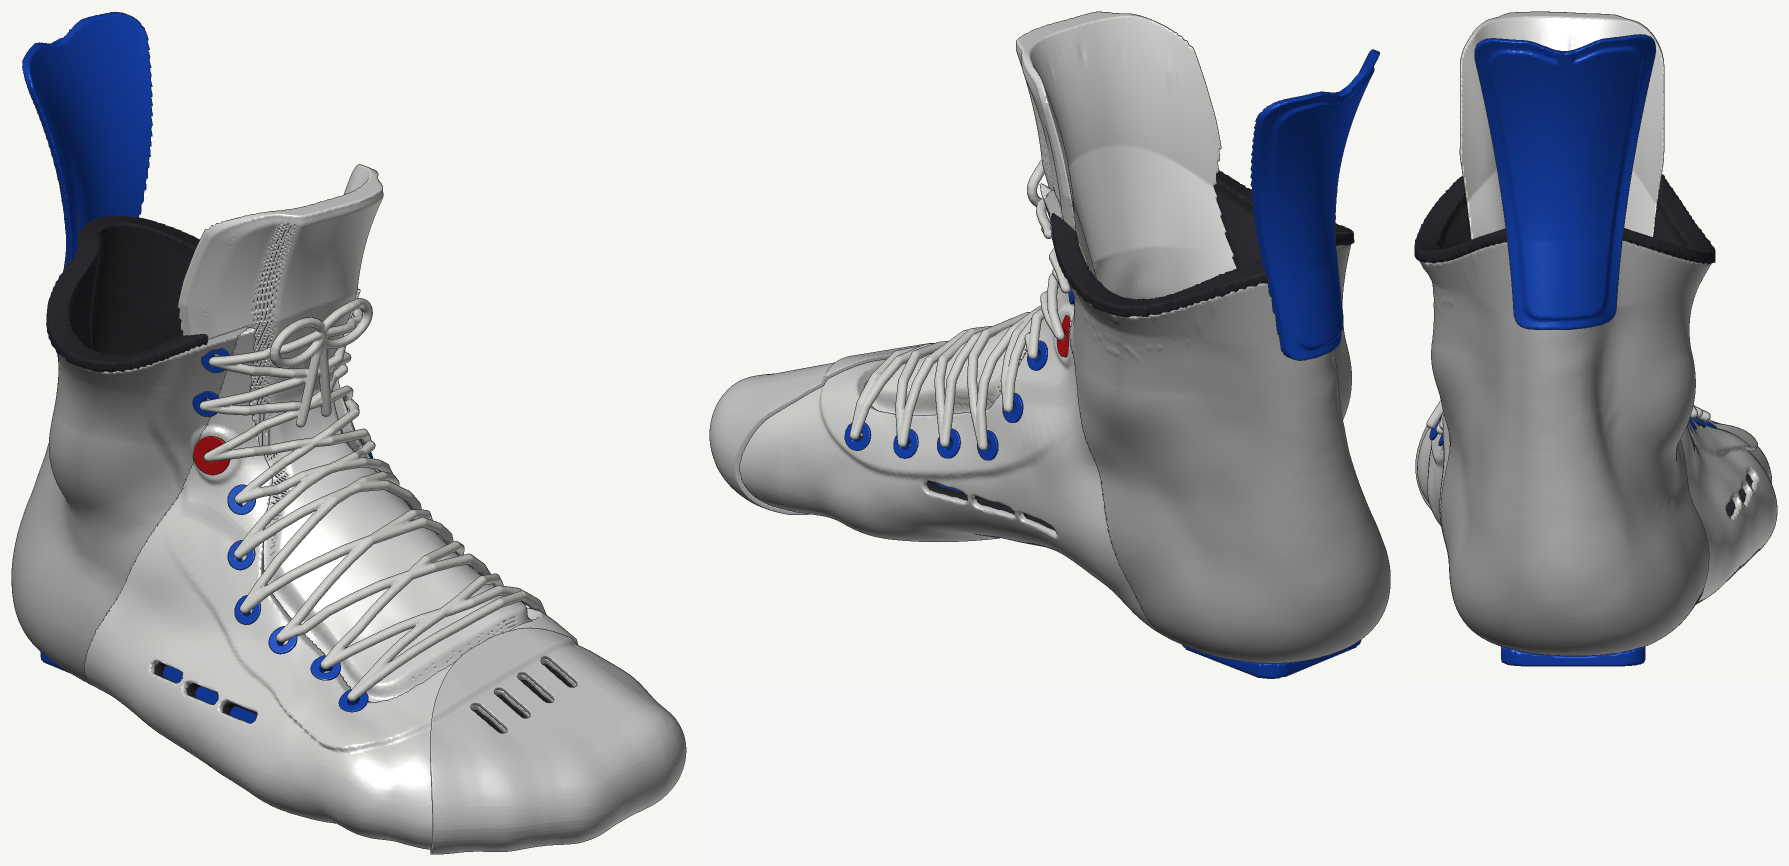
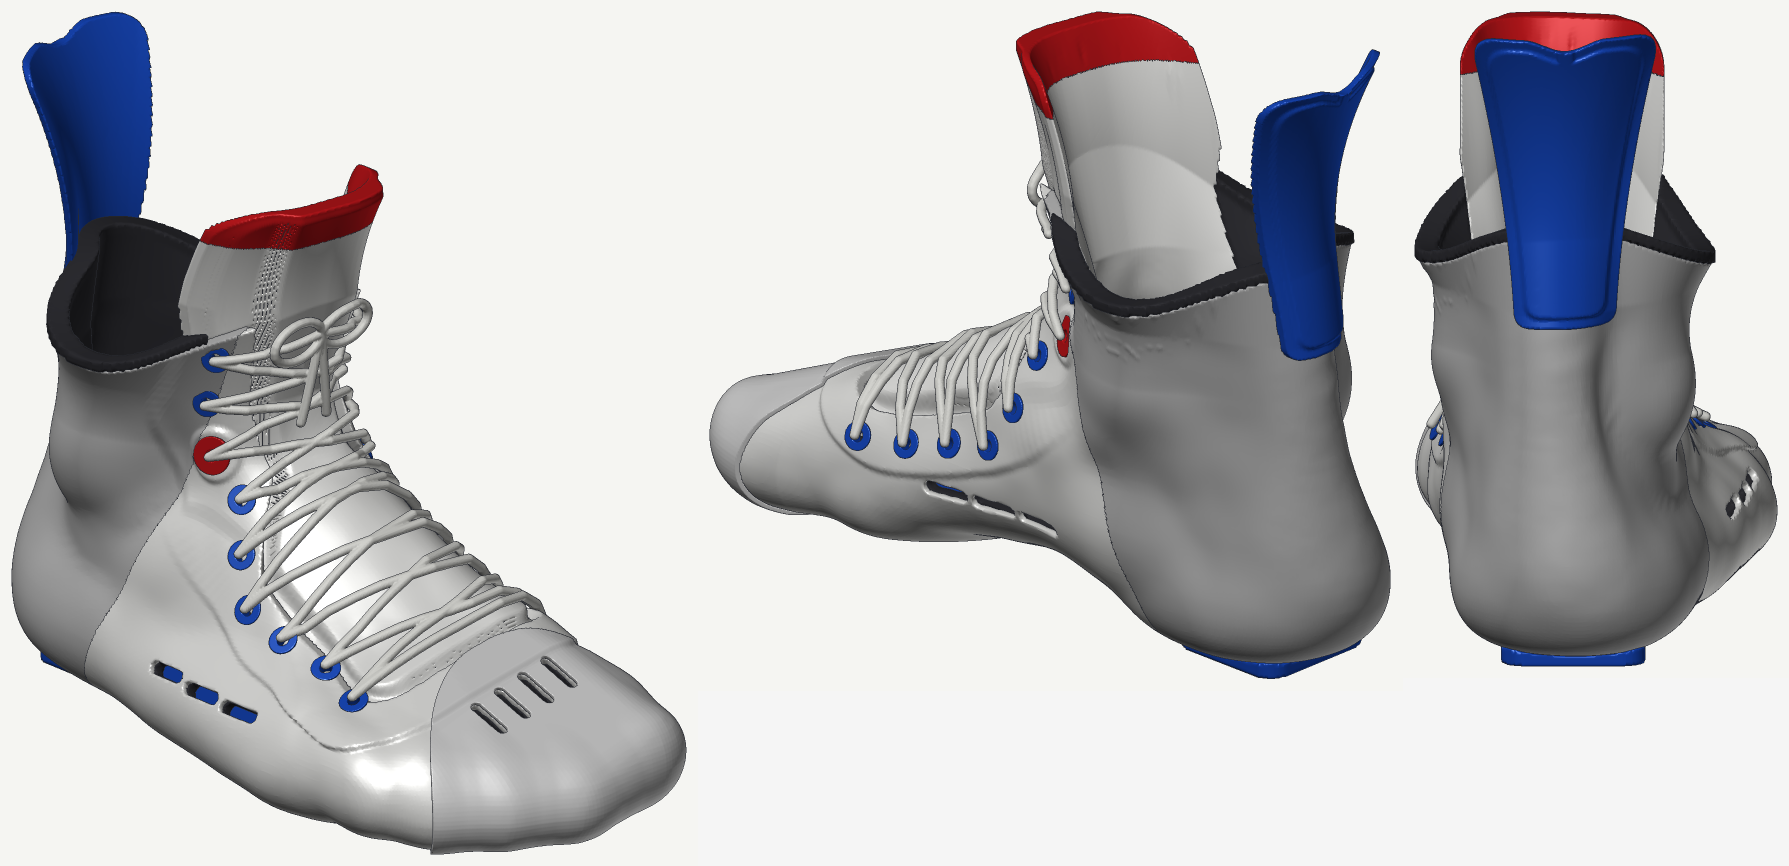
Docs: the whole skate rendered (ice holder, roller chassis)
- docs/skate/: ice and roller, both editions, three-quarter views and a side
  view. Ice 627 g (holder first look 244 g), roller 621 g without wheels and
  bearings (chassis 241 g); 616 / 611 g with the V throat.
- README: a whole-skate section; PLAN (Track C): the first-look holder, its
  estimates and what's next for it.
- docs/boot/ renders and summaries from the same runs (the alt picture now
  shows the red tongue tag).

diff --git a/docs/PLAN.md b/docs/PLAN.md
@@ -985,6 +985,22 @@ the rocker's upper: one last, two one-piece skates, each with the rocking joint 
   sharpener holds it.
 - **Patents:** check Marsblade's before making one to sell.
 
+**The whole skate, rendered (Jon, 2026-11-11: "can you render the skate with the bladeholder? for
+both ice hockey and the roller skate").** `src/skate.rs`; the boot run draws `skate_hero*.png` and
+`skate_side.png` and puts it in the viewer (its own data file).
+- **Roller:** the round-2 chassis with the ribbed upright walls (upper 240 mm, 6 panels, 5 mm
+  ribs on every member: the stiffest within the fatigue allowable bonded to the sole), centred
+  under the mount pads; display wheels. 241 g by mesh volume (round 2: 243.8 g); the floor 82 mm
+  below the sole; the whole skate 621 g without wheels and bearings (611 with the V throat).
+- **Ice: a first look, not a design.** Two towers under the mount pads, windowed, flaring to a
+  beam that holds the runner in a channel; our own steel runner (2.9 mm, 16 mm showing, 11 ft)
+  rocking on our own insert (23 ft) in the channel's roof, on a titanium pivot pin. 254 mm long
+  (Jon's i2); everything else an estimate. Holder 108 g (PA 12), runner 131 g (stainless,
+  density assumed), insert 2 g, pin 3 g: 244 g; the whole skate 627 g (616 with the V throat).
+  For comparison, a real holder and steel need weighing (MEASURE.md). Next for it: the one-piece
+  holder run down from the boot (Jon's direction above), the runner's profile and the insert
+  radii set from the pitch (GIH eq. 10), and the pivot's give.
+
 ## Jon's list for the boot, the skates and the gear (2026-11-11)
 
 Jon's items, in his words, each with a first engineering take and where it goes. Items 1 and

diff --git a/README.md b/README.md
@@ -207,6 +207,28 @@ flexible boots is in `docs/boot/v/`.
 
 Pictures, the layer sections and the numbers: `docs/boot/`, and `docs/PLAN.md` (Track B).
 
+## The whole skate
+
+![The ice skate: the black boot on a first-look holder with a steel runner](docs/skate/ice_hero.png)
+
+![The roller skate, alt edition: the boot on the round-2 rocker chassis with 4 x 72 mm wheels](docs/skate/roller_hero_alt.png)
+
+*The boot on what goes under it, both editions and both skates in `docs/skate/`; in the
+viewer too, with custom colours for every part.*
+
+- **Roller: the round-2 rocker chassis**, the ribbed upright walls that came out stiffest within
+  the fatigue allowable when bonded to the sole (upper 240 mm, 6 panels, 5 mm ribs), centred under
+  the boot's mount pads; 4 x 72 mm wheels, the upper rocking on a 7.5 ft arc; the floor 82 mm
+  below the sole. **Chassis 241 g** (round 2 weighed it at 244 g by a finer method); **the whole
+  skate 621 g without wheels and bearings.**
+- **Ice: a first look at the holder, not yet designed** (Track C): two windowed towers under the
+  mount pads on a beam, our own steel runner rocking against our own insert in the beam's
+  channel, on a pivot pin; nothing proprietary. 254 mm long (Jon's i2 size); the rest are
+  estimates: an 11 ft runner on a 23 ft insert (the i2's, as a reference), 16 mm of steel
+  showing, the ice 62 mm below the sole. **Holder 108 g in printed nylon, runner 131 g of steel,
+  244 g with the insert and pin; the whole skate 627 g.**
+- With the V throat: 616 g (ice), 611 g (roller).
+
 ## Status
 
 Phase 0 (the science, the pitch model, the mass tool checked), round 1 (the whole skate on an
